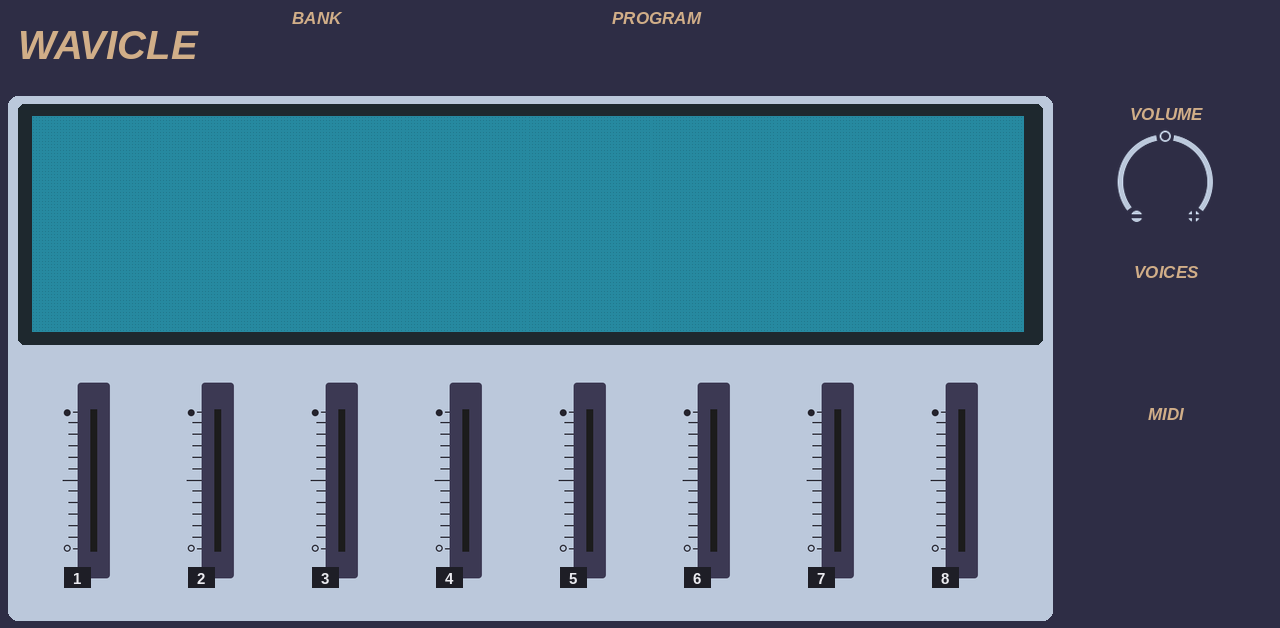
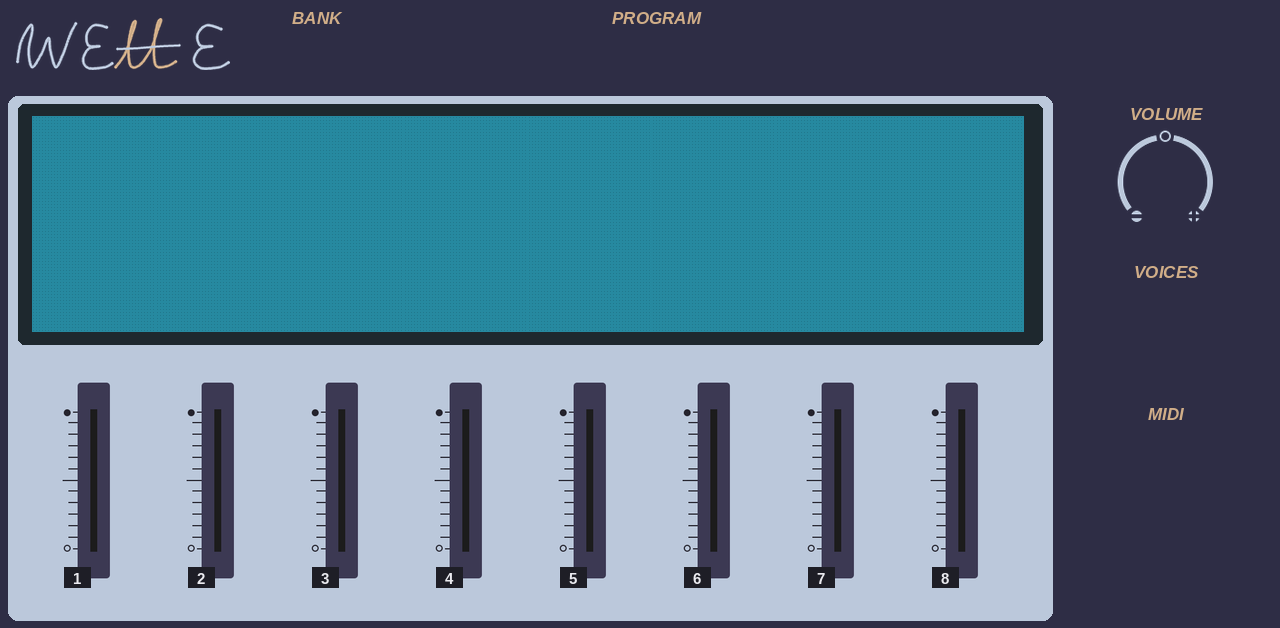
Rename to Welle (uid WeLe, welle.so, VST/welle/) with a hand-drawn wordmark in the manner of the Wave's
Claude-Session: https://claude.ai/code/session_01CpoP2srjV7KtCH1iUa1sg5

Changed region(s): [[0.0, 0.0303, 0.1875, 0.121]]

diff --git a/vst/skin.css b/vst/skin.css
@@ -1,4 +1,4 @@
-/* Wavicle: the look of Wave Emulation's panel (mo0kid): navy, tan section bars, the light centre section, a teal display.
+/* Welle: the look of Wave Emulation's panel (mo0kid): navy, tan section bars, the light centre section, a teal display.
    Colours come from the layout's theme_* lines; live text uses Liberation Sans (SIL OFL 1.1, vst/fonts/). */
 @font-face { font-family: "Liberation Sans"; font-weight: 700; src: url("fonts/LiberationSans-Bold.ttf"); }
 :root { --font: "Liberation Sans", "Titillium Web", sans-serif; --title-font: "Liberation Sans", sans-serif;

diff --git a/tools/make_wordmark.py b/tools/make_wordmark.py
@@ -1,0 +1,57 @@
+#!/usr/bin/env python3
+"""The WELLE wordmark, drawn in the manner of the Wave's own: a monoline hand-drawn script on the navy panel, the W and E in
+the panel's pale blue-grey, the double L as one tan swoosh with a pale stroke run through it (as the Wave's A/V and crossbar).
+Strokes are Catmull-Rom curves through hand-placed points, drawn at 4x and scaled down.
+    make_wordmark.py      writes skin/parts/wordmark.png (transparent, 4x) and vst/images/wordmark.png (for the pages)"""
+import os
+from PIL import Image, ImageDraw
+
+ROOT = os.path.join(os.path.dirname(os.path.abspath(__file__)), "..")
+PALE, TAN = (187, 200, 219, 255), (209, 174, 136, 255)
+S = 4                       # supersampling
+W, H = 260, 70              # design units (the strokes below)
+
+
+def spline(pts, n=24):
+    """Catmull-Rom through the points (ends repeated)"""
+    p = [pts[0]] + pts + [pts[-1]]
+    out = []
+    for i in range(1, len(p) - 2):
+        p0, p1, p2, p3 = p[i - 1], p[i], p[i + 1], p[i + 2]
+        for k in range(n):
+            t = k / n
+            t2, t3 = t * t, t * t * t
+            out.append(tuple(0.5 * (2 * p1[j] + (-p0[j] + p2[j]) * t + (2 * p0[j] - 5 * p1[j] + 4 * p2[j] - p3[j]) * t2
+                                    + (-p0[j] + 3 * p1[j] - 3 * p2[j] + p3[j]) * t3) for j in (0, 1)))
+    out.append(pts[-1])
+    return out
+
+
+def stroke(d, pts, col, w=3.2):
+    q = [(x * S, y * S) for x, y in spline(pts)]
+    d.line(q, fill=col, width=int(w * S), joint="curve")
+    r = w * S / 2
+    for x, y in (q[0], q[-1]):
+        d.ellipse((x - r, y - r, x + r, y + r), fill=col)
+
+
+im = Image.new("RGBA", (W * S, H * S), (0, 0, 0, 0))
+d = ImageDraw.Draw(im)
+# W: a loose script W, its first stroke rising from a curl at the left (as the Wave's)
+stroke(d, [(8, 52), (12, 30), (22, 12), (24, 18), (20, 40), (24, 58), (34, 44), (42, 26), (44, 40), (50, 58), (58, 44), (66, 22), (72, 10)], PALE)
+# E: open, three strokes in one, like the Wave's E
+stroke(d, [(106, 14), (92, 12), (84, 22), (86, 34), (98, 35), (86, 38), (80, 50), (86, 59), (104, 58), (112, 54)], PALE)
+# LL: one tan swoosh, two tall loops sweeping up and right (the Wave's A/V)
+stroke(d, [(116, 58), (126, 44), (134, 22), (138, 8), (134, 12), (130, 34), (132, 56), (142, 56), (154, 40), (162, 18), (166, 6),
+           (162, 10), (158, 34), (160, 56), (172, 57), (182, 52)], TAN)
+# the pale stroke run through the swoosh (the Wave's crossbar)
+stroke(d, [(118, 38), (140, 37), (164, 35), (186, 34)], PALE, 2.6)
+# E
+stroke(d, [(232, 16), (216, 12), (206, 22), (209, 34), (222, 35), (209, 38), (202, 50), (210, 59), (230, 58), (240, 53)], PALE)
+
+im = im.crop(im.getbbox())
+os.makedirs(os.path.join(ROOT, "skin", "parts"), exist_ok=True)
+im.save(os.path.join(ROOT, "skin", "parts", "wordmark.png"))
+small = im.resize((im.width // S * 1, im.height // S * 1), Image.LANCZOS)
+small.save(os.path.join(ROOT, "vst", "images", "wordmark.png"))
+print("wordmark", small.size)

diff --git a/src/dsp/welle_engine.cpp b/src/dsp/welle_engine.cpp
@@ -1,4 +1,4 @@
-/* Wavicle for MPC: mo0kid's Wave Emulation (a model of the Waldorf Wave's voice circuits, driven by the instrument's own OS 1.700
+/* Welle for MPC: mo0kid's Wave Emulation (a model of the Waldorf Wave's voice circuits, driven by the instrument's own OS 1.700
  * running on emulated 68000s) as an mpc-vst-plugins engine (wrapper/engine.h). GPL-3.0.
  *
  * Wave Emulation's JUCE AudioProcessor (src/wave, vendored with small patches: src/VENDORED.md) runs headless: no editor, no JUCE
@@ -6,7 +6,7 @@
  * in, renders 128-frame blocks into a ring of int16 stereo, and does the processor's "message thread" work (serviceAsyncUpdate).
  * render() only drains the ring.
  *
- * Parameters: every one of the processor's (APVTS) parameters, keyed by its ID (tools/gen_params.py -> wavicle_params.h). The
+ * Parameters: every one of the processor's (APVTS) parameters, keyed by its ID (tools/gen_params.py -> welle_params.h). The
  * values the screen reads are cached here and refreshed from the processor, so a program change or the firmware's own edits show.
  * Sounds: the Wave keeps them on floppy disk. Each disk image (.img) or Wave setup file in <data_dir>/banks/ is a bank of 256
  * performances. A setup file is first written into a disk image under <data_dir>/cache/.
@@ -41,7 +41,7 @@ extern "C" {
 #include "engine.h"
 }
 
-#include "wavicle_params.h"
+#include "welle_params.h"
 #include "wave_lcd.h"
 #include "UI/WaveLcdModel.h"
 
@@ -324,7 +324,7 @@ void emu_main(Inst *in) {
         const auto report = proc->loadFirmware(juce::File(juce::String(in->dir + "/roms")), false);
         (void)report;
         if (!proc->getMasterFirmwareRuntime().isLoaded()) {
-            in->set_status("No Wave OS 1.700 in wavicle/roms/ (w2sys.bin + wdv.sys)");
+            in->set_status("No Wave OS 1.700 in welle/roms/ (w2sys.bin + wdv.sys)");
             in->failed = true;
         } else {
             std::lock_guard<std::mutex> l(in->sm);
@@ -521,7 +521,7 @@ void emu_main(Inst *in) {
     if (!in->failed) lcd_th = std::thread(lcd_main, in, proc.get(), &lcd_quit);
     in->P = P;
     in->ready = true;
-    if (!in->failed) in->set_status(in->banks.empty() ? "Ready - no sound disks in wavicle/banks/" : "Ready");
+    if (!in->failed) in->set_status(in->banks.empty() ? "Ready - no sound disks in welle/banks/" : "Ready");
     xlog("[wv] ready after %.1f s", std::chrono::duration<double>(std::chrono::steady_clock::now() - t0).count());
 
     static const bool bench = getenv("WV_BENCH") != nullptr;
@@ -569,7 +569,7 @@ void emu_main(Inst *in) {
 void fav_load(Inst *in);
 
 void *eng_create(const char *dir) {
-    if (!g_log) g_log = fopen(getenv("WV_LOG") ? getenv("WV_LOG") : "/tmp/wavicle.log", "a");
+    if (!g_log) g_log = fopen(getenv("WV_LOG") ? getenv("WV_LOG") : "/tmp/welle.log", "a");
     Inst *in = new Inst();
     in->dir = dir ? dir : "";
     for (int i = 0; i < WV_NUM_PARAMS; i++) {

diff --git a/tools/make_skin.py b/tools/make_skin.py
@@ -112,7 +112,7 @@ class Page:
             emit('qlinks "%s" = %s' % (title, ",".join(keys)))
 
 
-emit("""# Wavicle skin layout: generated by tools/make_skin.py (edit that, not this file), in the look of Wave Emulation's panel.
+emit("""# Welle skin layout: generated by tools/make_skin.py (edit that, not this file), in the look of Wave Emulation's panel.
 theme_bg=24232d
 theme_panel=2e2d45
 theme_line=d1ae88
@@ -144,12 +144,16 @@ qlink_bounds=column
 knob_strip=images/knob_wave.png""")
 
 
-def wordmark(d, x, y, size):
-    d.text((x, y), "WAVICLE", font=F(size, TITLE), fill=TAN)
+WORDMARK = Image.open(os.path.join(OUT, "images", "wordmark.png")).convert("RGBA")   # tools/make_wordmark.py
+
+
+def wordmark(im, x, y, h):
+    w = WORDMARK.resize((WORDMARK.width * h // WORDMARK.height, h), Image.LANCZOS)
+    im.paste(w, (x, y), w)
 
 
 def header(p):
-    wordmark(p.d, 18, 22, 40)
+    wordmark(p.im, 16, 18, 52)
     for x0, t in ((292, "BANK"), (612, "PROGRAM")):
         p.d.text((x0, 8), t, font=F(17, TITLE), fill=TAN)
     p.widgets.append('stepper w=290 h=44 cx=440 cy=%d label="" key=bank_index get=bank_name prev=bank_prev next=bank_next style=dotmatrix persistent=1' % (52 + Y86))
@@ -362,6 +366,6 @@ open(os.path.join(OUT, "layout.conf"), "w").write("\n".join(lines) + "\n")
 tile = Image.new("RGB", (270, 110), NAVY)
 d = ImageDraw.Draw(tile)
 d.rectangle((0, 0, 270, 14), fill=TAN)
-d.text((135, 58), "WAVICLE", font=F(44, TITLE), fill=TAN, anchor="mm")
+wordmark(tile, 14, 28, 58)
 tile.save(os.path.join(OUT, "images", "tile.png"))
 print("layout.conf: %d lines" % len(lines))

diff --git a/tools/gen_params.py b/tools/gen_params.py
@@ -1,5 +1,5 @@
 #!/usr/bin/env python3
-"""Write vst/params.json and src/dsp/wavicle_params.h from Wave Emulation's own parameter list.
+"""Write vst/params.json and src/dsp/welle_params.h from Wave Emulation's own parameter list.
 
 tools/wave_params.jsonl is that list as the processor reports it (build/x86/wave_dump_params > tools/wave_params.jsonl; rerun after
 updating src/wave). Every one of its parameters becomes an MPC parameter with the same key (the APVTS parameter ID):
@@ -13,7 +13,7 @@ HERE = os.path.dirname(os.path.abspath(__file__))
 ROOT = os.path.join(HERE, "..")
 SRC = os.path.join(HERE, "wave_params.jsonl")
 OUT = os.path.join(ROOT, "vst", "params.json")
-HDR = os.path.join(ROOT, "src", "dsp", "wavicle_params.h")
+HDR = os.path.join(ROOT, "src", "dsp", "welle_params.h")
 
 W = [json.loads(l) for l in open(SRC)]
 
@@ -159,7 +159,7 @@ add(dict(key="midi_mode", name="MIDI", options=["All parts", "As sent"], default
 
 order = ["Browse", "LCD", "Banks", "System", "Waves", "Wave Env", "Filter", "Amp", "LFO", "Mod", "Free Env", "Quick", "Faders"]
 sections = [{"label": s, "keys": sec_keys[s]} for s in order if s in sec_keys]
-json.dump({"name": "Wavicle", "params": params, "sections": sections}, open(OUT, "w"), indent=1)
+json.dump({"name": "Welle", "params": params, "sections": sections}, open(OUT, "w"), indent=1)
 
 with open(HDR, "w") as f:
     f.write("/* generated by tools/gen_params.py from tools/wave_params.jsonl: do not edit.\n"

diff --git a/test/engine_test.cpp b/test/engine_test.cpp
@@ -1,6 +1,6 @@
 // Engine-level test through the interface the wrapper uses (mpc_engine): boots Wave OS 1.700 from <dir>/roms, plays notes, moves
 // parameters (they must change the sound), changes the voice limit, checks the state chunk round trip and a second instance.
-// usage: wavicle_engine_test <data dir with roms/> [seconds of audio per phase] [wav out]
+// usage: welle_engine_test <data dir with roms/> [seconds of audio per phase] [wav out]
 extern "C" {
 #include "engine.h"
 }

diff --git a/test/hold_bench.cpp b/test/hold_bench.cpp
@@ -1,5 +1,5 @@
 // Hold <notes> notes for <seconds> with the voice option <0|1> (8|16), pulling audio in real time as MPC would; report dropouts.
-// usage: wavicle_hold_bench <data dir> <notes> <voices option> [seconds]
+// usage: welle_hold_bench <data dir> <notes> <voices option> [seconds]
 extern "C" {
 #include "engine.h"
 }
